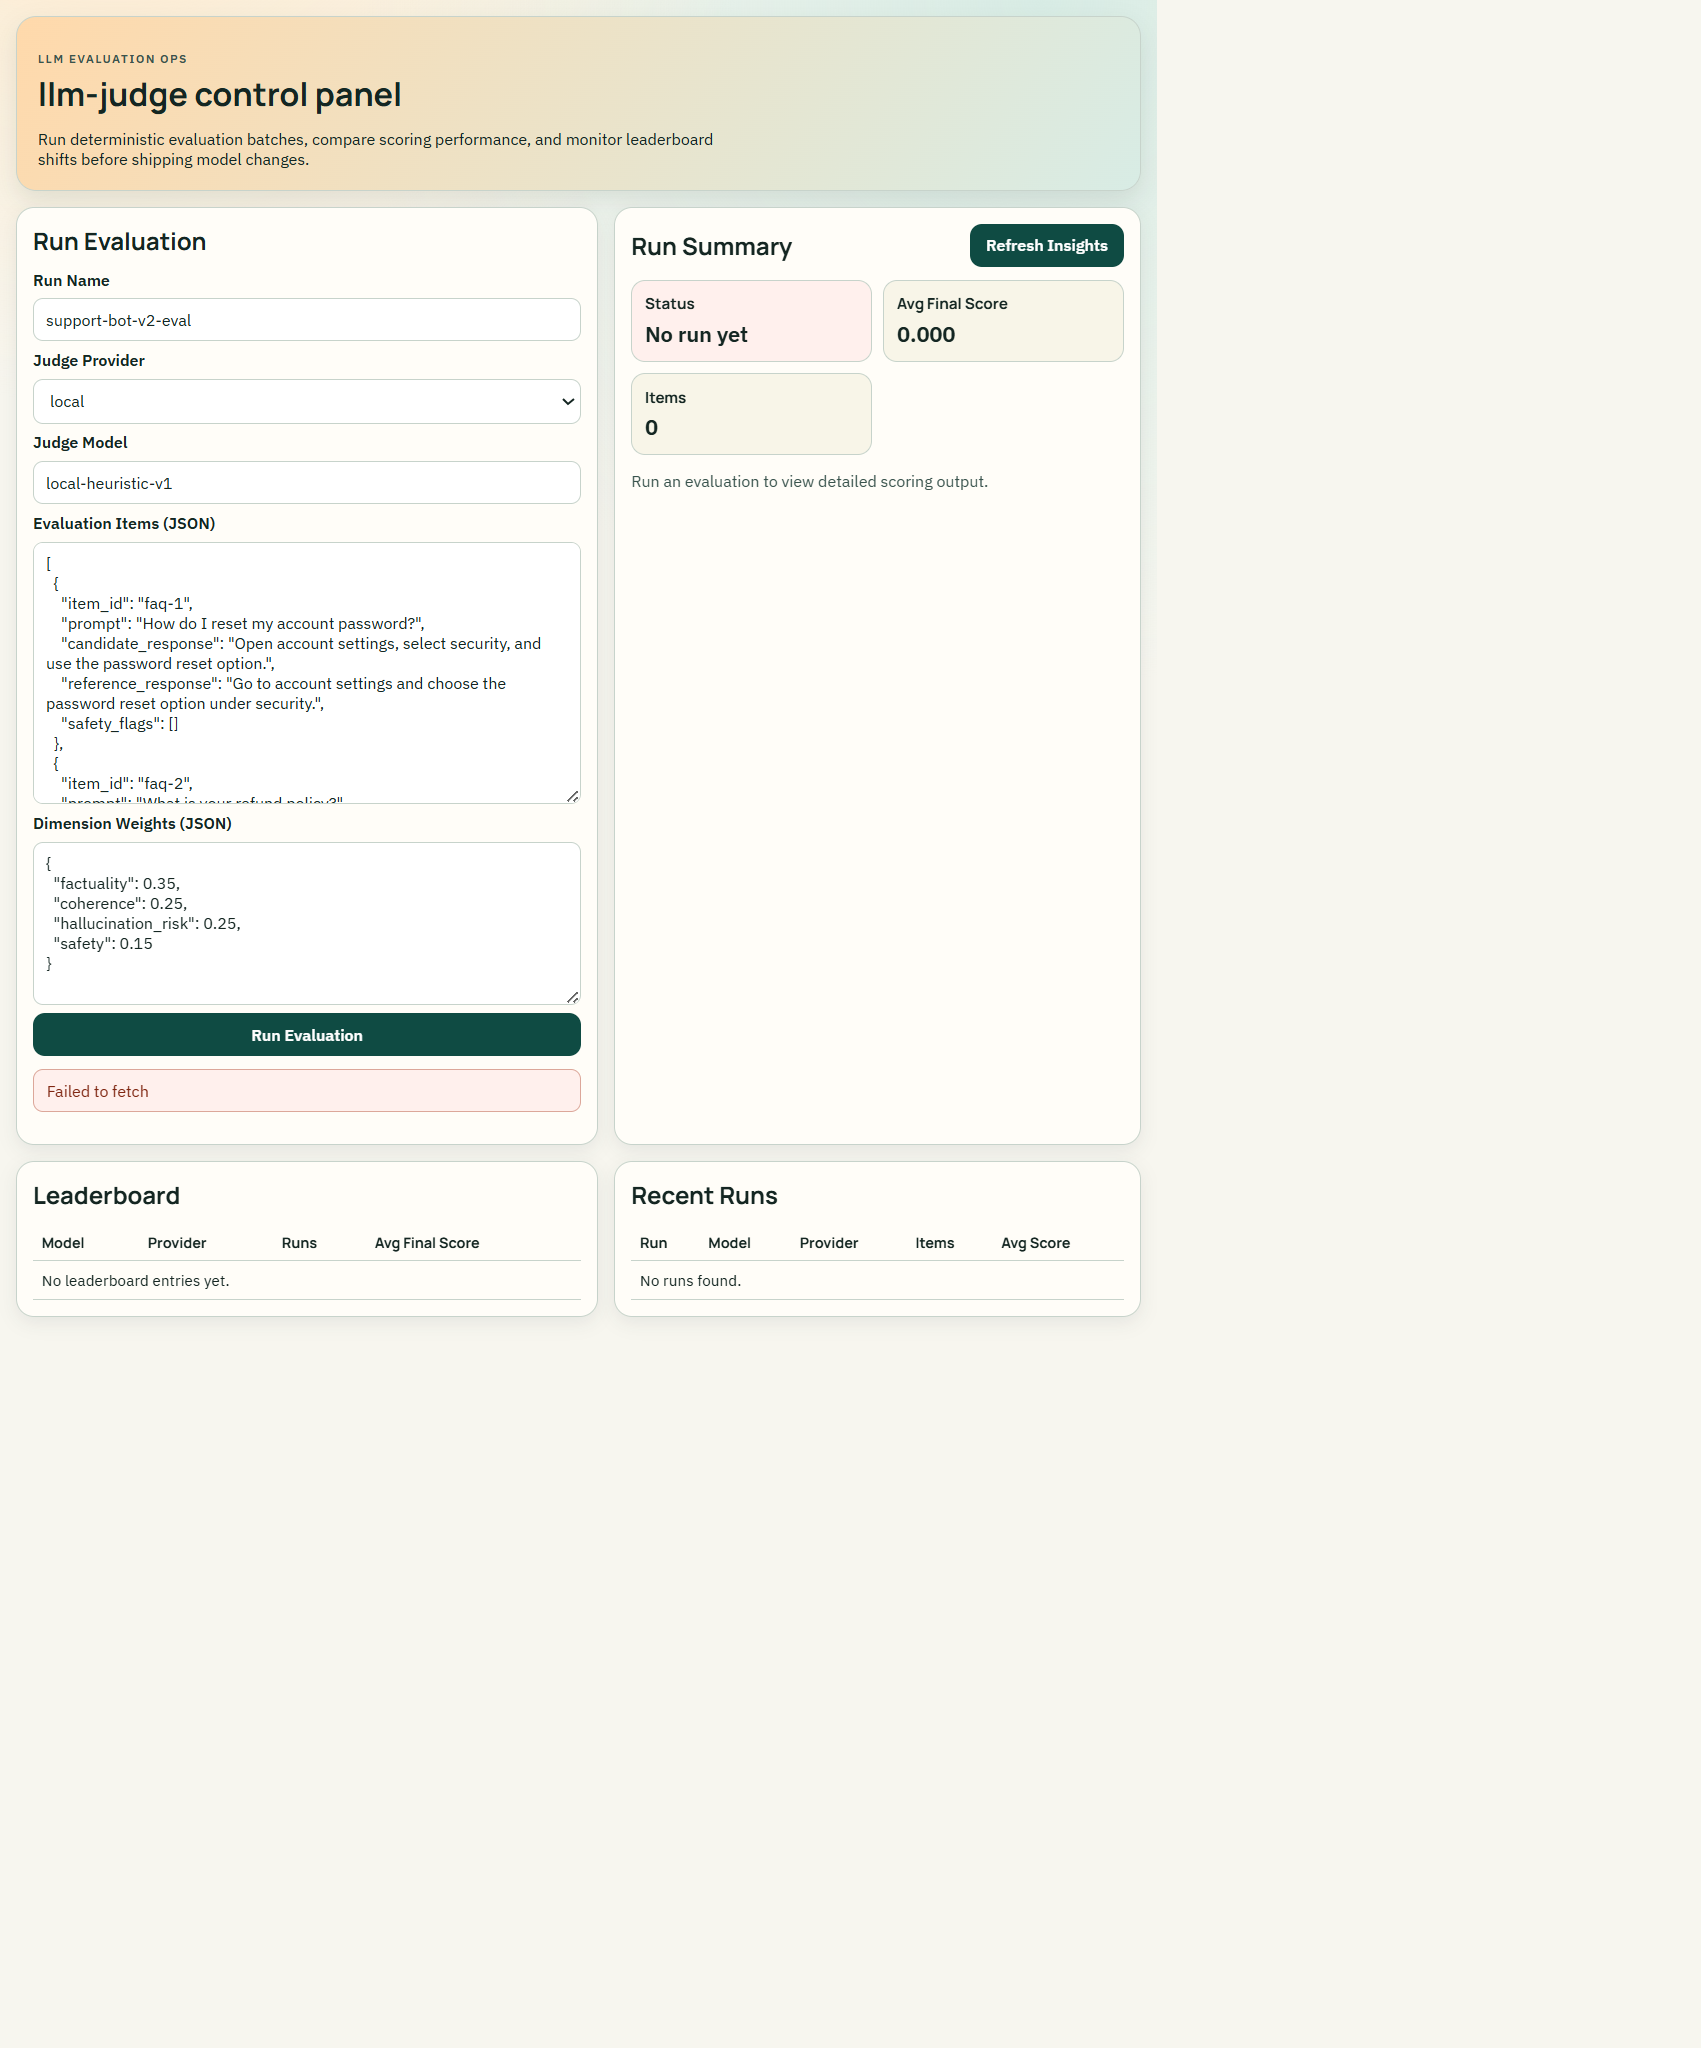
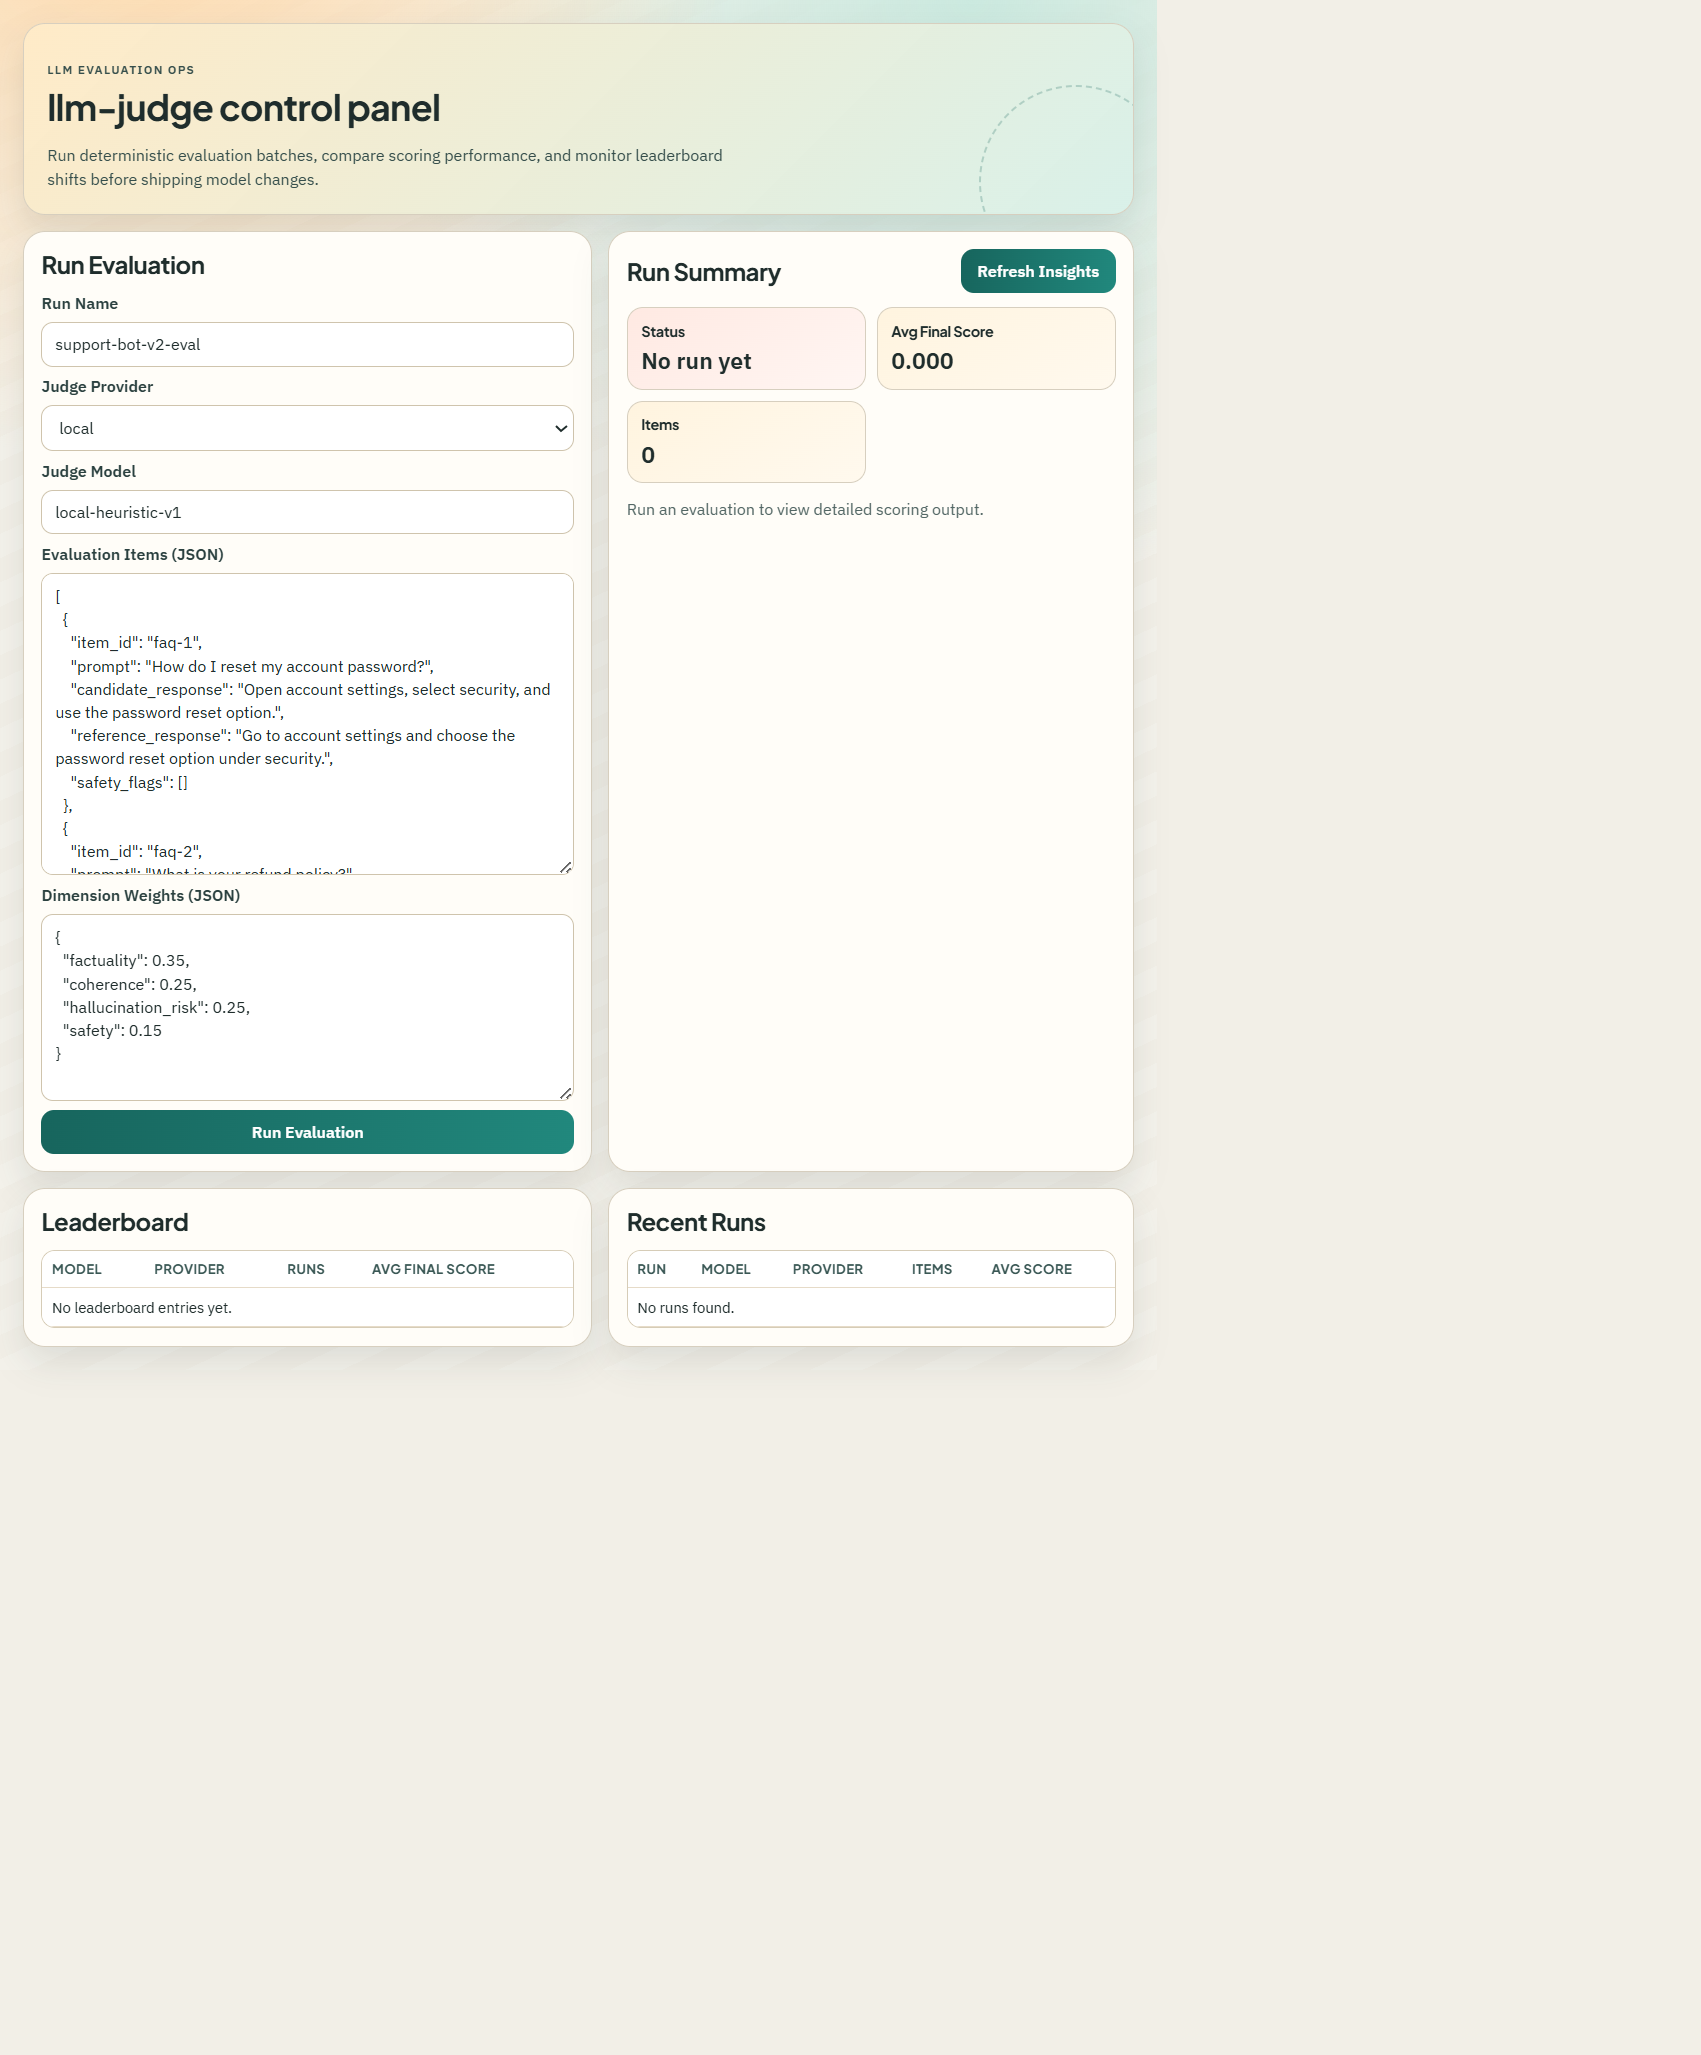
feat(ui): refresh styling and screenshots

Changed region(s): [[0.0, 0.0, 0.6855, 0.6562]]

diff --git a/frontend/src/styles.css b/frontend/src/styles.css
@@ -1,18 +1,20 @@
 /* Generated by GitHub Copilot */
-@import url("https://fonts.googleapis.com/css2?family=Manrope:wght@500;700;800&family=IBM+Plex+Sans:wght@400;500;600&display=swap");
+@import url("https://fonts.googleapis.com/css2?family=Plus+Jakarta+Sans:wght@500;600;700;800&family=IBM+Plex+Sans:wght@400;500;600&display=swap");
 
 :root {
-    --bg-main: #f7f6ef;
-    --bg-panel: #fffdf8;
-    --bg-hero-start: #ffd9ab;
-    --bg-hero-end: #d8ece5;
-    --ink-main: #142622;
-    --ink-soft: #39534d;
-    --line: #c7d3cb;
-    --ok: #1f825b;
-    --alert: #b33d26;
-    --neutral: #6a5d3d;
-    --focus: #ff8e4a;
+    --lj-bg: #f2efe7;
+    --lj-paper: #fffdf8;
+    --lj-card: #ffffff;
+    --lj-line: #d7cfbf;
+    --lj-ink: #1f2d2c;
+    --lj-muted: #536765;
+    --lj-brand: #17655d;
+    --lj-brand-strong: #0f4c47;
+    --lj-ok: #1a7f54;
+    --lj-alert: #b63d29;
+    --lj-neutral: #6f5d31;
+    --lj-focus: #ff9847;
+    --lj-shadow: 0 16px 34px rgb(31 45 44 / 11%);
 }
 
 * {
@@ -21,52 +23,77 @@
 
 body {
     margin: 0;
+    min-height: 100vh;
+    color: var(--lj-ink);
     font-family: "IBM Plex Sans", sans-serif;
     background:
-        radial-gradient(circle at 10% -20%, #ffe8c7 0%, transparent 35%),
-        radial-gradient(circle at 90% 0%, #d8ece5 0%, transparent 40%),
-        var(--bg-main);
-    color: var(--ink-main);
+        radial-gradient(circle at 12% -10%, #ffd9a9 0%, transparent 33%),
+        radial-gradient(circle at 84% 0%, #cbe9df 0%, transparent 35%),
+        repeating-linear-gradient(155deg, rgb(255 255 255 / 16%) 0 22px, rgb(255 255 255 / 2%) 22px 44px),
+        var(--lj-bg);
 }
 
 h1,
 h2,
 h3 {
     margin: 0;
-    font-family: "Manrope", sans-serif;
+    font-family: "Plus Jakarta Sans", sans-serif;
+    letter-spacing: -0.02em;
 }
 
 .app-shell {
-    max-width: 1180px;
+    max-width: 1220px;
     margin: 0 auto;
-    padding: 1rem 1rem 3rem;
+    padding: clamp(1rem, 2vw, 2rem);
+}
+
+.hero,
+.panel {
+    border: 1px solid var(--lj-line);
+    border-radius: 22px;
+    background: var(--lj-paper);
+    box-shadow: var(--lj-shadow);
 }
 
 .hero {
-    border: 1px solid var(--line);
-    border-radius: 20px;
-    padding: 1.3rem;
-    background: linear-gradient(125deg, var(--bg-hero-start), var(--bg-hero-end));
-    box-shadow: 0 10px 24px rgb(20 38 34 / 10%);
+    position: relative;
+    overflow: hidden;
+    padding: clamp(1.2rem, 2vw, 2rem);
+    background:
+        linear-gradient(135deg, rgb(255 233 195 / 93%), rgb(215 240 232 / 95%)),
+        var(--lj-paper);
+    animation: lj-rise 0.5s ease-out both;
+}
+
+.hero::before {
+    content: "";
+    position: absolute;
+    inset: auto -40px -65px auto;
+    width: 190px;
+    height: 190px;
+    border-radius: 999px;
+    border: 2px dashed rgb(23 101 93 / 24%);
 }
 
 .eyebrow {
     margin: 0;
     text-transform: uppercase;
     letter-spacing: 0.12em;
-    font-size: 0.75rem;
+    font-size: 0.74rem;
     font-weight: 700;
-    color: var(--ink-soft);
+    color: var(--lj-muted);
 }
 
 .hero h1 {
     margin-top: 0.35rem;
-    font-size: clamp(1.8rem, 2.8vw, 2.6rem);
+    font-size: clamp(1.9rem, 3.1vw, 3rem);
 }
 
 .hero p {
-    margin: 0.8rem 0 0;
+    margin: 0.85rem 0 0;
     max-width: 72ch;
+    line-height: 1.5;
+    color: #354e4b;
 }
 
 main {
@@ -76,11 +103,24 @@ main {
 }
 
 .panel {
-    border: 1px solid var(--line);
-    border-radius: 18px;
-    background: var(--bg-panel);
-    padding: 1rem;
-    box-shadow: 0 6px 18px rgb(20 38 34 / 8%);
+    padding: clamp(0.95rem, 1.5vw, 1.25rem);
+    animation: lj-rise 0.48s ease-out both;
+}
+
+main .panel:nth-of-type(1) {
+    animation-delay: 0.05s;
+}
+
+main .panel:nth-of-type(2) {
+    animation-delay: 0.12s;
+}
+
+main .panel:nth-of-type(3) {
+    animation-delay: 0.18s;
+}
+
+main .panel:nth-of-type(4) {
+    animation-delay: 0.24s;
 }
 
 .panel-row {
@@ -88,16 +128,18 @@ main {
     align-items: center;
     justify-content: space-between;
     gap: 0.8rem;
+    flex-wrap: wrap;
 }
 
 .judge-form {
-    margin-top: 0.8rem;
+    margin-top: 0.85rem;
     display: grid;
-    gap: 0.55rem;
+    gap: 0.58rem;
 }
 
 label {
     font-weight: 700;
+    color: #2a403f;
 }
 
 input,
@@ -111,126 +153,163 @@ input,
 textarea,
 select {
     width: 100%;
-    border-radius: 10px;
-    border: 1px solid var(--line);
+    border-radius: 12px;
+    border: 1px solid #cfc4ad;
     background: #fff;
-    color: var(--ink-main);
-    padding: 0.65rem 0.75rem;
+    color: var(--lj-ink);
+    padding: 0.7rem 0.8rem;
+}
+
+textarea {
+    resize: vertical;
+    line-height: 1.45;
 }
 
 button {
-    border: none;
-    border-radius: 12px;
-    padding: 0.72rem 1rem;
-    background: #0f4b43;
+    border: 0;
+    border-radius: 13px;
+    padding: 0.74rem 1.02rem;
+    background: linear-gradient(95deg, var(--lj-brand), #21887d);
     color: #fff;
     cursor: pointer;
     font-weight: 700;
+    transition: transform 0.2s ease, box-shadow 0.2s ease;
+}
+
+button:hover:not(:disabled) {
+    transform: translateY(-1px);
+    box-shadow: 0 10px 18px rgb(23 101 93 / 24%);
 }
 
 button:disabled {
-    opacity: 0.7;
+    opacity: 0.68;
     cursor: not-allowed;
 }
 
-input:focus,
-textarea:focus,
-select:focus,
-button:focus {
-    outline: 3px solid var(--focus);
+input:focus-visible,
+textarea:focus-visible,
+select:focus-visible,
+button:focus-visible {
+    outline: 3px solid var(--lj-focus);
     outline-offset: 2px;
 }
 
 .error-banner {
     margin-top: 0.8rem;
-    border-radius: 10px;
-    border: 1px solid #dca79a;
-    background: #fff0ed;
-    color: #7f2611;
-    padding: 0.65rem 0.8rem;
+    border-radius: 11px;
+    border: 1px solid #d99f90;
+    background: #fff0ec;
+    color: #7d2611;
+    padding: 0.66rem 0.82rem;
 }
 
 .summary-grid {
-    margin-top: 0.8rem;
+    margin-top: 0.9rem;
     display: grid;
     gap: 0.7rem;
-    grid-template-columns: repeat(auto-fit, minmax(170px, 1fr));
+    grid-template-columns: repeat(auto-fit, minmax(165px, 1fr));
 }
 
 .summary-card {
-    border: 1px solid var(--line);
-    border-radius: 14px;
-    padding: 0.8rem;
+    border: 1px solid var(--lj-line);
+    border-radius: 16px;
+    padding: 0.84rem;
+    background: var(--lj-card);
 }
 
 .summary-card h3 {
-    font-size: 0.95rem;
+    font-size: 0.9rem;
 }
 
 .summary-card p {
     margin: 0.35rem 0 0;
-    font-size: 1.35rem;
+    font-size: 1.45rem;
     font-weight: 800;
 }
 
 .summary-card--ok {
-    background: #e9f8f2;
+    background: linear-gradient(145deg, #e6f8ef, #f2fcf7);
 }
 
 .summary-card--alert {
-    background: #fff0ed;
+    background: linear-gradient(145deg, #ffe9e2, #fff6f3);
 }
 
 .summary-card--neutral {
-    background: #f8f5e8;
+    background: linear-gradient(145deg, #fff4df, #fff9ee);
 }
 
 .table-wrap {
-    margin-top: 0.8rem;
+    margin-top: 0.85rem;
     overflow-x: auto;
+    border: 1px solid #d6ccb7;
+    border-radius: 14px;
 }
 
 table {
     width: 100%;
     border-collapse: collapse;
+    background: #fff;
 }
 
 th,
 td {
     text-align: left;
-    border-bottom: 1px solid var(--line);
-    padding: 0.55rem;
-    font-size: 0.96rem;
+    border-bottom: 1px solid #e6dbc8;
+    padding: 0.6rem;
+    font-size: 0.92rem;
 }
 
 th {
-    font-family: "Manrope", sans-serif;
-    font-size: 0.9rem;
+    font-family: "Plus Jakarta Sans", sans-serif;
+    font-size: 0.82rem;
+    text-transform: uppercase;
+    letter-spacing: 0.03em;
+    color: #395754;
 }
 
 .status-ok {
-    color: var(--ok);
+    color: var(--lj-ok);
 }
 
 .status-alert {
-    color: var(--alert);
+    color: var(--lj-alert);
 }
 
 .status-neutral {
-    color: var(--neutral);
+    color: var(--lj-neutral);
 }
 
 .placeholder {
-    color: var(--ink-soft);
+    color: var(--lj-muted);
 }
 
 .notes ul {
     margin: 0.5rem 0 0;
-    padding-left: 1.2rem;
+    padding-left: 1.1rem;
 }
 
-@media (width >=1040px) {
+@keyframes lj-rise {
+    from {
+        opacity: 0;
+        transform: translateY(13px);
+    }
+
+    to {
+        opacity: 1;
+        transform: translateY(0);
+    }
+}
+
+@media (width >= 1050px) {
     main {
-        grid-template-columns: 1.05fr 0.95fr;
+        grid-template-columns: 1.04fr 0.96fr;
+    }
+}
+
+@media (width <= 700px) {
+    .hero,
+    .panel {
+        border-radius: 18px;
     }
 }
